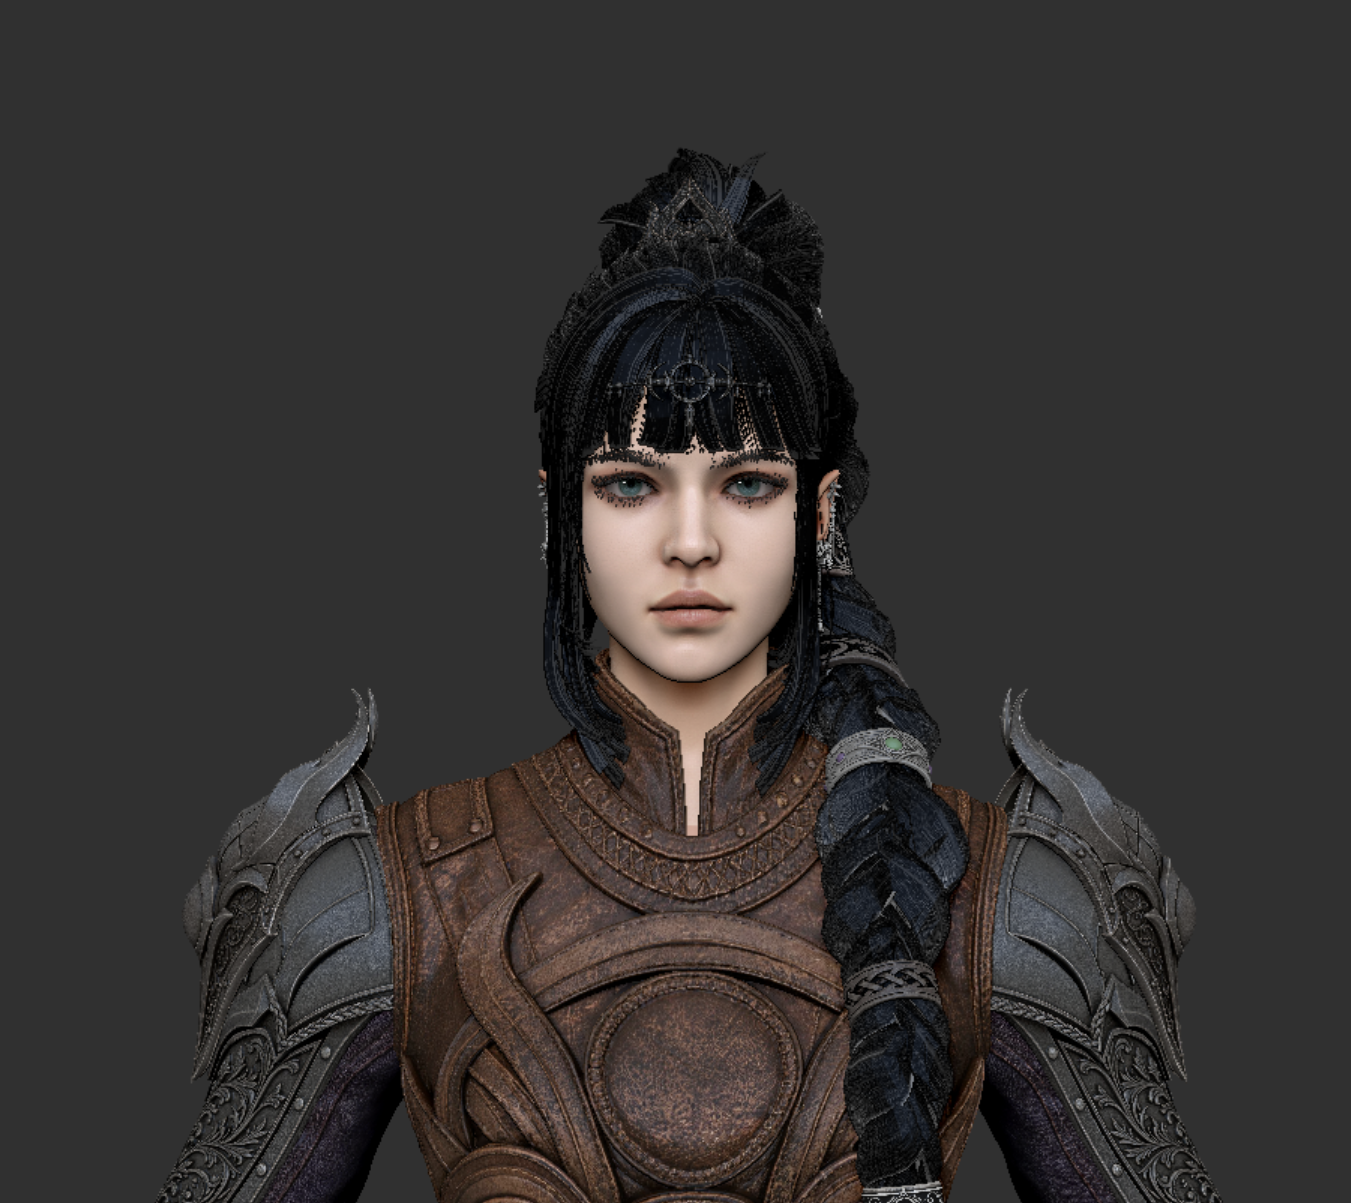
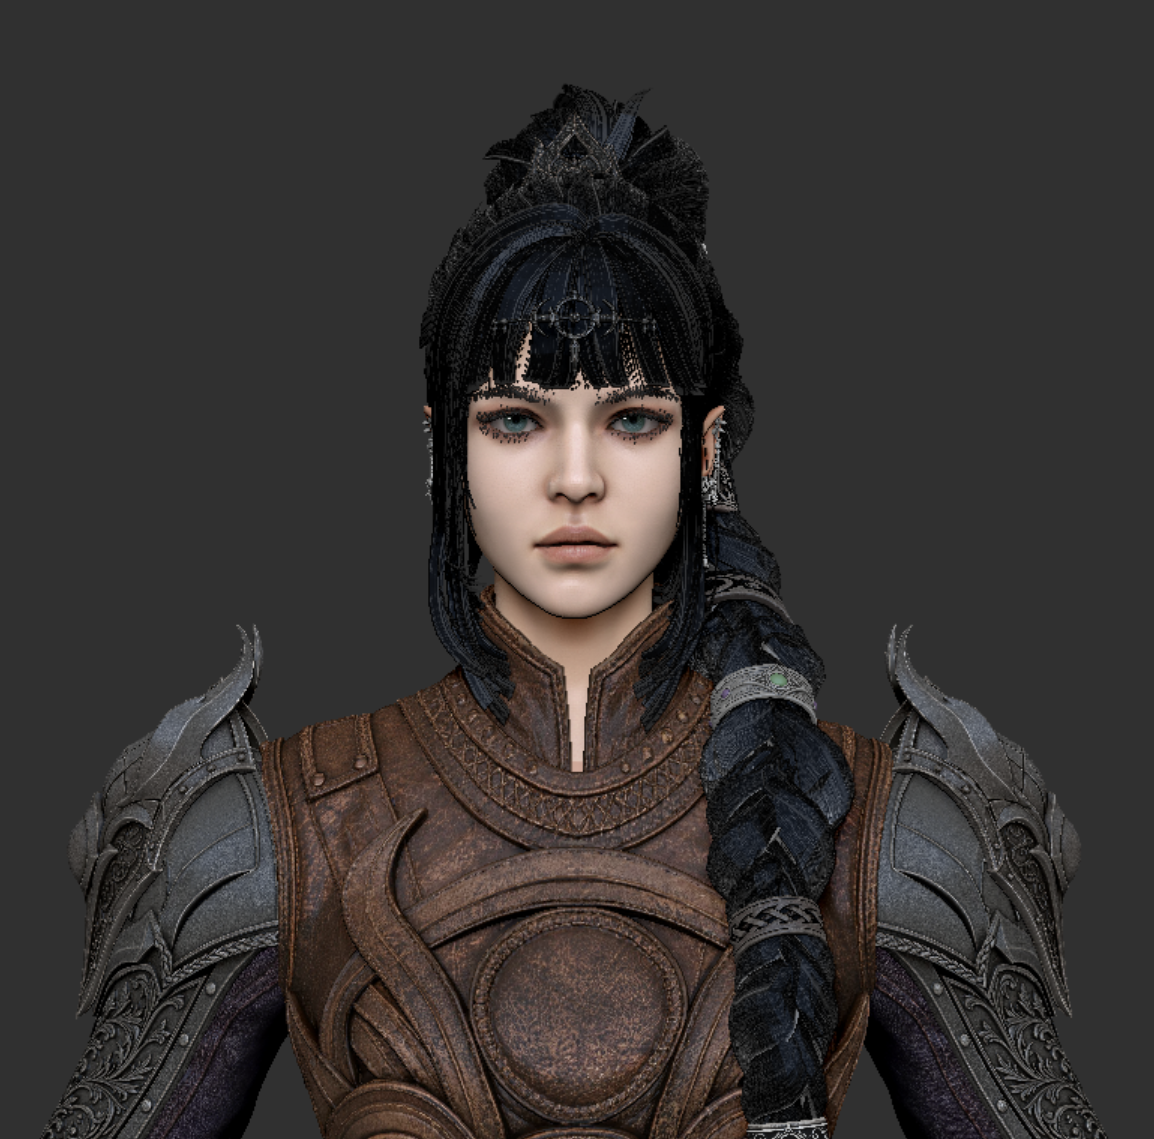
1

Changed region(s): [[0.0312, 0.0615, 0.9671, 1.0]]

diff --git a/blog-shadowheart.html b/blog-shadowheart.html
@@ -504,6 +504,13 @@
                             用发片做出来的刘海在没开透明通道的时候真的特别像狗啃的，边缘一块一块的，特别生硬。但这玩意儿不能光在 ZBrush 里看效果，得等到丢进引擎里开了 Alpha 测试、加了材质之后才能看出真实效果。所以目前先暂定这个形状，等之后导进 UE 里渲染出来再决定要不要接着调——说不定到时候就顺眼了，也说不定到时候要推翻重做，先这样存个档再说。
                         </p>
                     </div>
+
+                    <div style="margin: 1.5rem 0 0 0; padding: 1rem 1.5rem; border-left: 3px solid #b892a8; background: rgba(184, 146, 168, 0.05); border-radius: 0 8px 8px 0;">
+                        <p style="margin: 0 0 0.5rem 0;"><strong>📌 今日状态备注</strong></p>
+                        <p style="margin: 0; color: var(--text-secondary); font-size: 0.95rem; line-height: 1.9;">
+                            起床之后头痛了一整天，今晚暂时就更到这里。加了发须、重做了刘海、把辫子挪到前面、追加了耳饰，剩下的细节等状态好一点的时候继续慢慢打磨。
+                        </p>
+                    </div>
                 </div>
 
                 <div id="log-20260816-v3" style="margin: 2rem 0 1.5rem 0; padding-top: 1.2rem; border-top: 1px dashed rgba(139, 91, 122, 0.2);">
